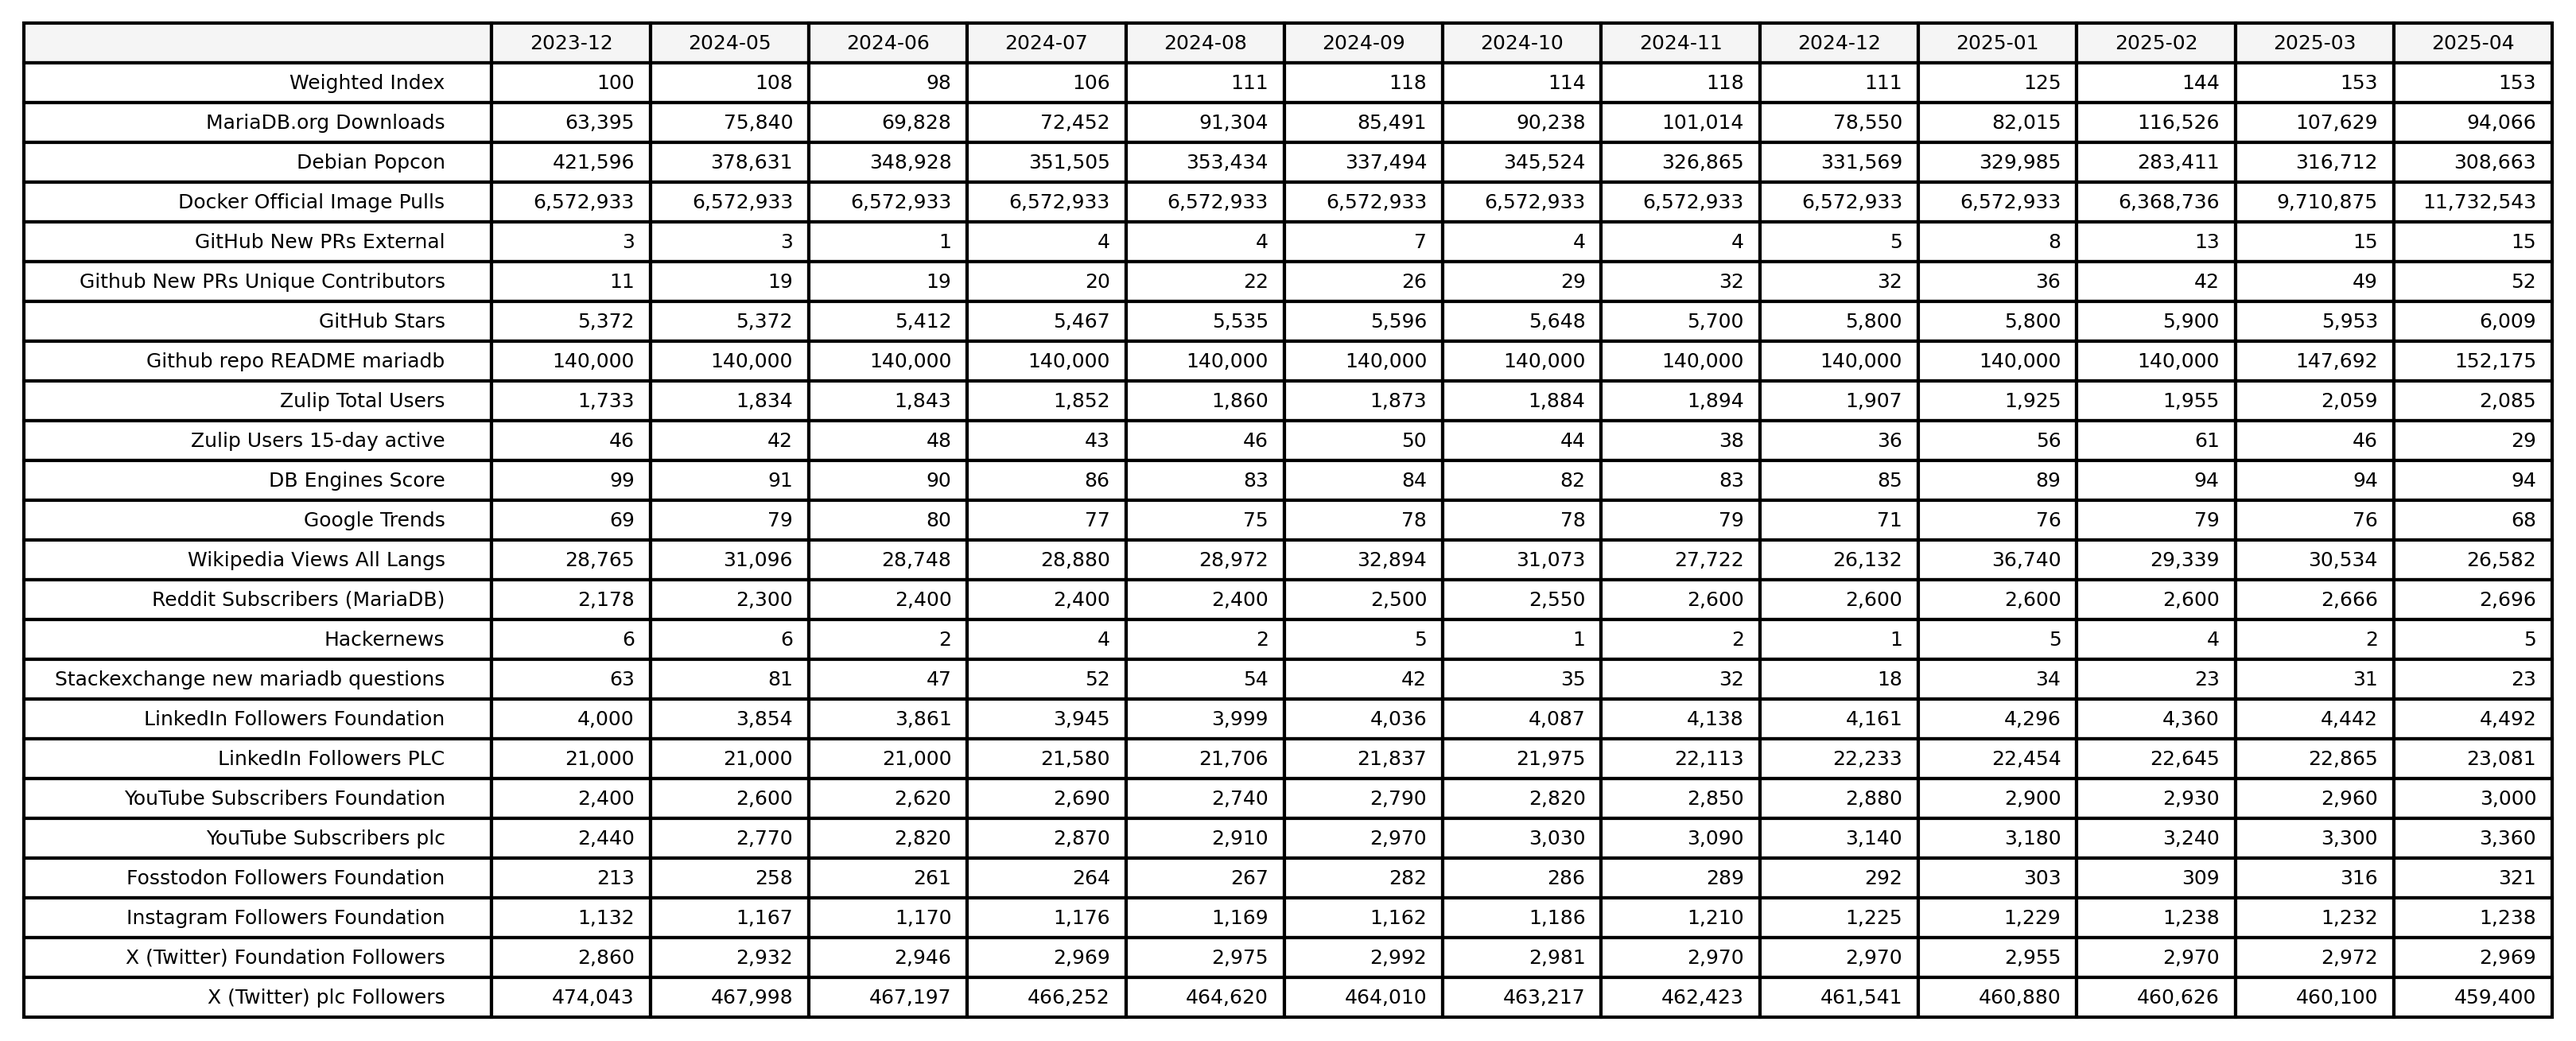
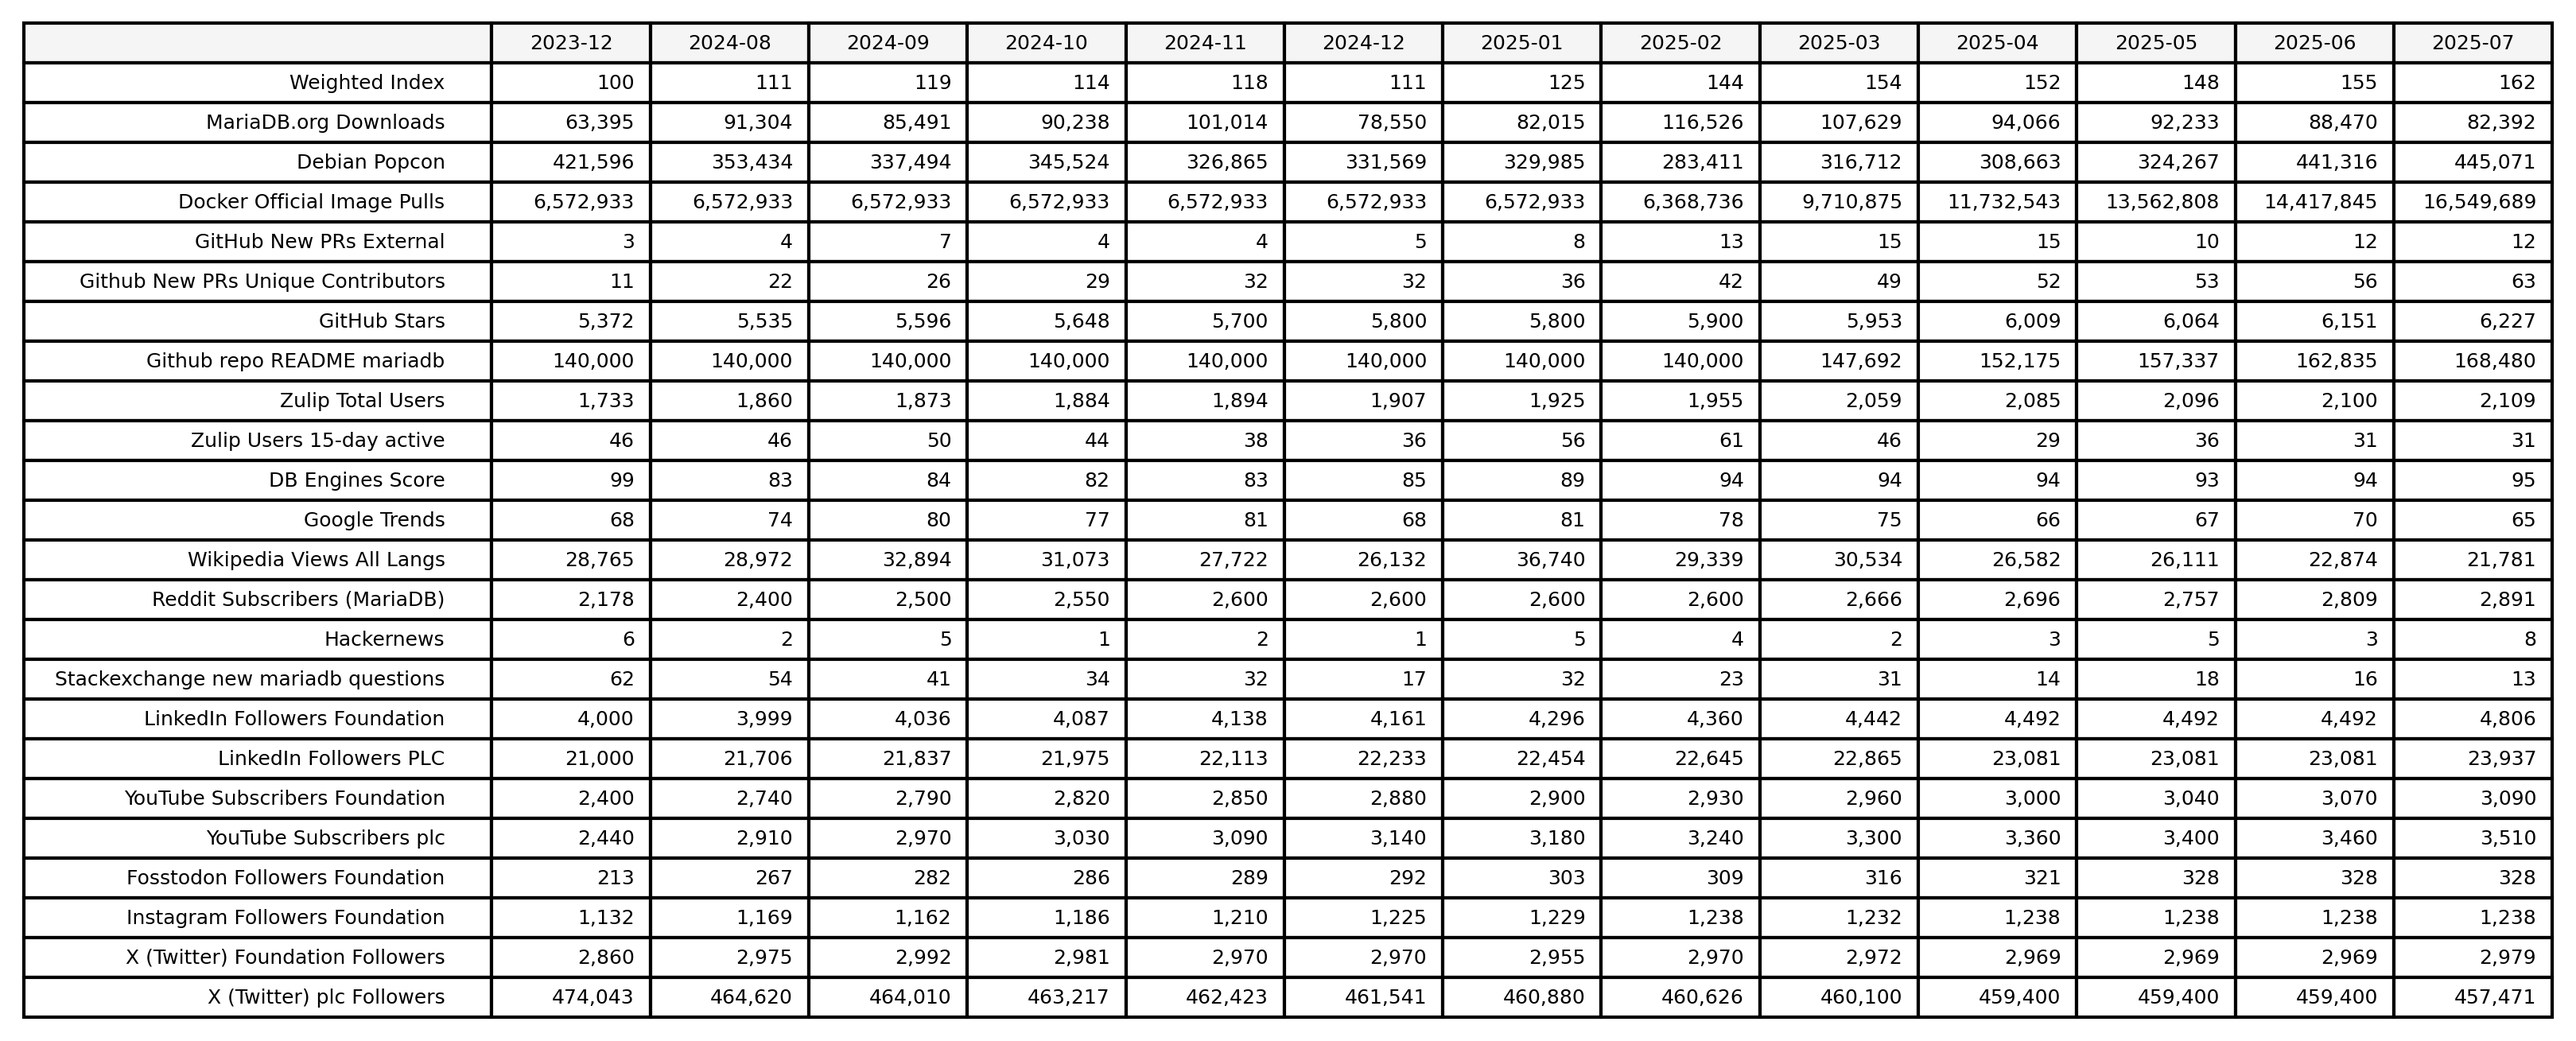
manual data updated, and adoption index script run for 2025-07

diff --git a/README.md b/README.md
@@ -18,15 +18,15 @@ Baseline 2024-01-01 in practise values for month of 2023-12.
 
 The Adoption Index is a weighted average of chosen metrics depciting MariaDB's adoption. The baseline "100" index value is 2024-01.
 
-To create the adoption index for the latest month, run the script in [index/create_index.py](index/create_index.py). It will use monthly data stored in '''monthly.csv''' files in the '''data''' folder, and weights defined in [index/create_index_weights.csv](index/create_index_weights.csv).
+To create the adoption index for the latest month, run the script in [index/create_index.py](index/create_index.py). It will use monthly data stored in ```monthly.csv``` files in the ```data``` folder, and weights defined in [index/create_index_weights.csv](index/create_index_weights.csv).
 
 ## Automation to fetch data
 
-The source data that the adoption index is based on, are monthly values in the '''data''' folder. 
+The source data that the adoption index is based on, are monthly values in the ```data``` folder. 
 
 The data is fetched manually, or automatically with Github Actions (see .github/workflows/) on a daily or monthly. The automation may be a curl command, and python script in the data folder's fetch.py file, or an explanation in a fetch.md file explaining how to manually update the data. To see an overview of when thethe current Github Actions are run, see [scripts/workflow_schedules.csv](scripts/workflow_schedules.csv) generated by [scripts/workflow_schedules.py](scripts/workflow_schedules.py).
 
-Data that is fetched on a daily basis is stored in a '''daily.csv''' file. It is converted to a monthly format '''monthly.csv''' by a Github Actions using the scripts in [daily2monthly.py](scripts/daily2monthly.py) or [delta2monthly.py](scripts/delta2monthly.py).
+Data that is fetched on a daily basis is stored in a daily.csv``` file. It is converted to a monthly format ```monthly.csv``` by a Github Actions using the scripts in [daily2monthly.py](scripts/daily2monthly.py) or [delta2monthly.py](scripts/delta2monthly.py).
 
 The table below shows how a particular source is updated. "key" means the source is not public and requires an API-key to access. The API-keys are stored as secrets in the Github Repo for the Github Actions to use. The "create monthly" shows what is used to create the monthly value.
 
